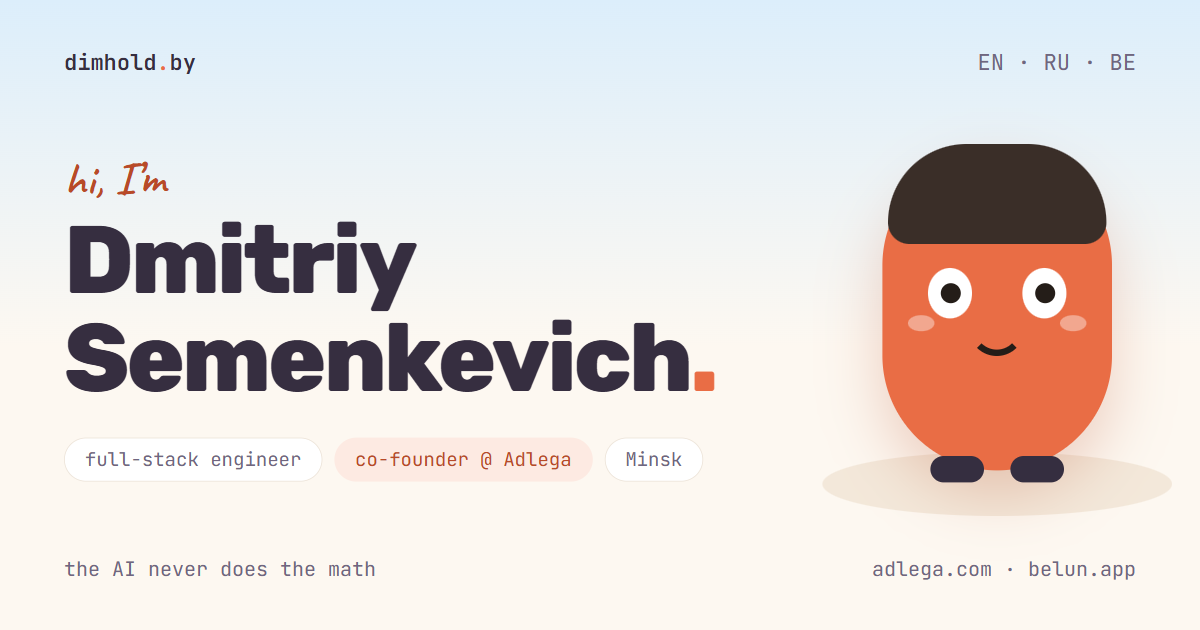
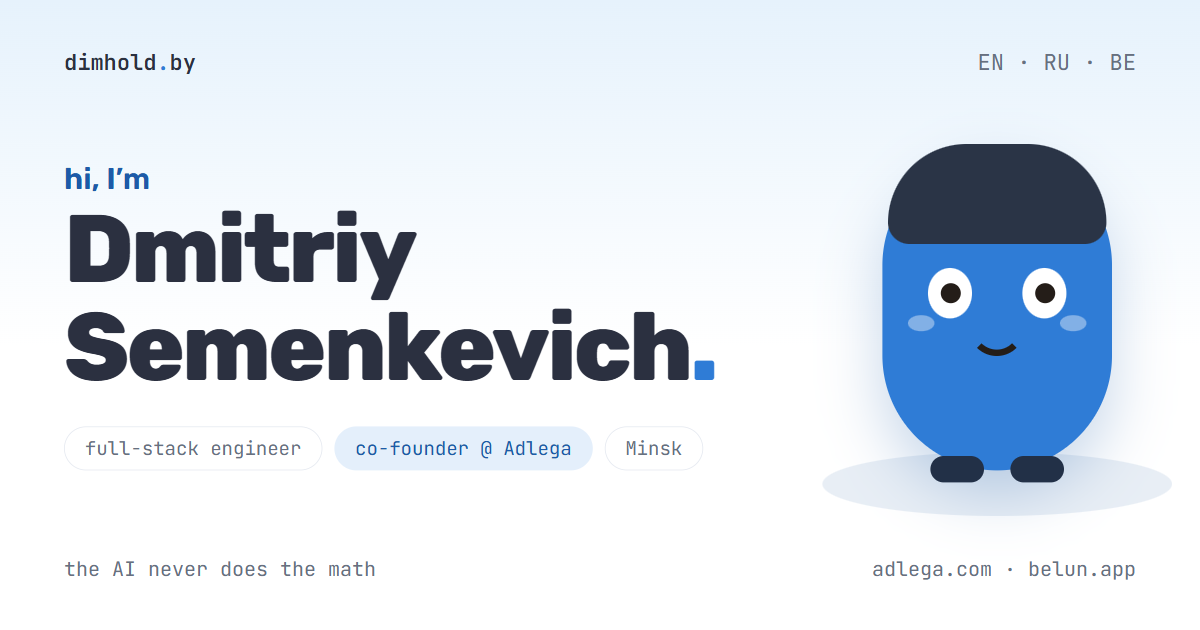
Fixed blue palette, remove the chameleon
- Single blue accent (#2f7cd6) in day and night; no coral/orange anywhere:
  favicon, OG image, 3D stage, lamp glow and bean recolored to match
- Drop the daily-seed system: palette rotation, artifact of the day,
  seed line and peek-at-tomorrow; boot script now only resolves day/night
- Rewrite the first essay as a plain rebuild build-log (site-rebuild),
  removing the deterministic-site story

diff --git a/src/i18n/index.ts b/src/i18n/index.ts
@@ -53,11 +53,7 @@ export interface Dictionary {
     ctaAdlega: string;
     photoAlt: string;
     hint: string;
-    artifactLabel: string;
-    seedLine: string;
-    seedTomorrow: string;
   };
-  artifacts: string[];
   work: {
     label: string;
     items: WorkItem[];
@@ -124,22 +120,7 @@ export const en: Dictionary = {
     ctaAdlega: 'See Adlega',
     photoAlt: 'Portrait of Dmitriy Semenkevich',
     hint: 'drag me. poke me.',
-    artifactLabel: 'today’s artifact',
-    seedLine: 'this site is deterministic',
-    seedTomorrow: 'peek at tomorrow →',
   },
-  artifacts: [
-    'a mug of coffee',
-    'a stack of books',
-    'a houseplant',
-    'a chess pawn',
-    'a donut',
-    'a dumbbell',
-    'a vinyl record',
-    'a laptop',
-    'a gem',
-    'a balloon',
-  ],
   work: {
     label: 'Building now',
     items: [
@@ -283,22 +264,7 @@ export const ru: Dictionary = {
     ctaAdlega: 'Смотреть Adlega',
     photoAlt: 'Портрет Дмитрия Семенкевича',
     hint: 'покрутите меня. ткните в меня.',
-    artifactLabel: 'артефакт дня',
-    seedLine: 'этот сайт детерминирован',
-    seedTomorrow: 'заглянуть в завтра →',
   },
-  artifacts: [
-    'кружка кофе',
-    'стопка книг',
-    'растение',
-    'шахматная пешка',
-    'пончик',
-    'гантель',
-    'виниловая пластинка',
-    'ноутбук',
-    'кристалл',
-    'воздушный шарик',
-  ],
   work: {
     label: 'Сейчас строю',
     items: [
@@ -442,22 +408,7 @@ export const be: Dictionary = {
     ctaAdlega: 'Глядзець Adlega',
     photoAlt: 'Партрэт Дзмітрыя Семянкевіча',
     hint: 'пакруціце мяне. тыцніце ў мяне.',
-    artifactLabel: 'артэфакт дня',
-    seedLine: 'гэты сайт дэтэрмінаваны',
-    seedTomorrow: 'зазірнуць у заўтра →',
   },
-  artifacts: [
-    'кубак кавы',
-    'стос кніг',
-    'расліна',
-    'шахматная пешка',
-    'пончык',
-    'гантэля',
-    'вінілавая пласцінка',
-    'ноўтбук',
-    'крышталь',
-    'паветраны шарык',
-  ],
   work: {
     label: 'Зараз будую',
     items: [

diff --git a/src/scripts/hero3d.ts b/src/scripts/hero3d.ts
@@ -231,10 +231,10 @@ function buildArtifact(index: number, accent: string, deep: string): THREE.Group
 }
 
 const PHASE_LIGHTS = {
-  morning: { hemiSky: 0xffe3c8, hemiGround: 0xd9c2a8, hemiInt: 0.95, key: 0xffd9a8, keyInt: 1.25, keyPos: [2.5, 3, 2] },
-  day: { hemiSky: 0xdfefff, hemiGround: 0xcfc4b4, hemiInt: 1.05, key: 0xffffff, keyInt: 1.35, keyPos: [2, 3.5, 2] },
-  evening: { hemiSky: 0xffd2b0, hemiGround: 0xb59a92, hemiInt: 0.85, key: 0xffb37a, keyInt: 1.2, keyPos: [2.5, 1.8, 1.5] },
-  night: { hemiSky: 0x3a3560, hemiGround: 0x181322, hemiInt: 0.55, key: 0x8fa0ff, keyInt: 0.35, keyPos: [2, 3, 2] },
+  morning: { hemiSky: 0xe4efff, hemiGround: 0xc9d2e0, hemiInt: 1.0, key: 0xffffff, keyInt: 1.3, keyPos: [2.5, 3, 2] },
+  day: { hemiSky: 0xdfefff, hemiGround: 0xc9d2e0, hemiInt: 1.05, key: 0xffffff, keyInt: 1.35, keyPos: [2, 3.5, 2] },
+  evening: { hemiSky: 0xd7e2f5, hemiGround: 0xb6c1d4, hemiInt: 0.9, key: 0xeef4ff, keyInt: 1.2, keyPos: [2.5, 1.8, 1.5] },
+  night: { hemiSky: 0x2a3a5e, hemiGround: 0x0e1626, hemiInt: 0.55, key: 0x8fa8ff, keyInt: 0.35, keyPos: [2, 3, 2] },
 } as const;
 
 export async function mountHero(container: HTMLElement, opts: HeroOptions): Promise<void> {
@@ -262,14 +262,14 @@ export async function mountHero(container: HTMLElement, opts: HeroOptions): Prom
   key.shadow.camera.top = 3;
   key.shadow.camera.bottom = -3;
   scene.add(key);
-  const lamp = new THREE.PointLight(0xffc47a, 14, 7, 1.8);
+  const lamp = new THREE.PointLight(0xbdd2ff, 14, 7, 1.8);
   lamp.position.set(1.3, 2.1, 1.1);
   lamp.visible = false;
   scene.add(lamp);
 
   const stage = new THREE.Mesh(
     new THREE.CylinderGeometry(1.55, 1.62, 0.16, 48),
-    std(0xf3e8da, { roughness: 0.9 }),
+    std(0xe8eef5, { roughness: 0.9 }),
   );
   stage.position.y = -0.08;
   stage.receiveShadow = true;
@@ -291,7 +291,7 @@ export async function mountHero(container: HTMLElement, opts: HeroOptions): Prom
     key.position.set(rig.keyPos[0], rig.keyPos[1], rig.keyPos[2]);
     const night = kind === 'night';
     lamp.visible = night;
-    (stage.material as THREE.MeshStandardMaterial).color.set(night ? 0x352d4a : 0xf3e8da);
+    (stage.material as THREE.MeshStandardMaterial).color.set(night ? 0x20304b : 0xe8eef5);
     (shadowCatcher.material as THREE.ShadowMaterial).opacity = night ? 0.32 : 0.16;
   }
 

diff --git a/src/scripts/site.ts b/src/scripts/site.ts
@@ -1,51 +1,10 @@
 import { mountToy } from './goalseek';
 
-interface Daily {
-  seed: string;
-  artifact: number;
-  accent: string;
-  deep: string;
-  wash: string;
-  phase: 'morning' | 'day' | 'evening' | 'night';
-}
-
-const FALLBACK: Daily = {
-  seed: 'fallback',
-  artifact: 0,
-  accent: '#e96d45',
-  deep: '#b84a28',
-  wash: '#fdeae2',
-  phase: 'day',
-};
+const ACCENT = '#2f7cd6';
+const ACCENT_DEEP = '#1d5aa8';
 
 export function initSite() {
-  const daily: Daily = (window as any).__daily ?? FALLBACK;
   const reduced = matchMedia('(prefers-reduced-motion: reduce)').matches;
-
-  // — captions: artifact of the day + seed line —
-  const artifactEl = document.querySelector<HTMLElement>('[data-artifact-name]');
-  if (artifactEl) {
-    try {
-      const names: string[] = JSON.parse(artifactEl.dataset.artifactNames ?? '[]');
-      artifactEl.textContent = names[daily.artifact] ?? '';
-    } catch {
-      /* keep empty */
-    }
-  }
-  for (const el of document.querySelectorAll<HTMLElement>('[data-seed]')) {
-    el.textContent = daily.seed;
-  }
-  const tomorrowLink = document.querySelector<HTMLAnchorElement>('[data-seed-tomorrow]');
-  if (tomorrowLink && /^\d{4}-\d{2}-\d{2}$/.test(daily.seed)) {
-    const d = new Date(daily.seed + 'T12:00:00');
-    d.setDate(d.getDate() + 1);
-    const pad = (n: number) => String(n).padStart(2, '0');
-    const next = `${d.getFullYear()}-${pad(d.getMonth() + 1)}-${pad(d.getDate())}`;
-    tomorrowLink.href = `?seed=${next}`;
-    tomorrowLink.addEventListener('click', () => {
-      (window as any).posthog?.capture('seed_traveled', { to: next });
-    });
-  }
 
   // — the lamp —
   const lamp = document.querySelector<HTMLButtonElement>('[data-lamp]');
@@ -115,10 +74,10 @@ export function initSite() {
     import('./hero3d')
       .then((m) =>
         m.mountHero(sceneEl, {
-          accent: daily.accent,
-          deep: daily.deep,
-          phase: daily.phase,
-          artifact: daily.artifact,
+          accent: ACCENT,
+          deep: ACCENT_DEEP,
+          phase: document.documentElement.dataset.mode === 'night' ? 'night' : 'day',
+          artifact: 7,
           reduced,
         }),
       )

diff --git a/src/styles/global.css b/src/styles/global.css
@@ -8,10 +8,10 @@
   --font-mono: 'JetBrains Mono Variable', Consolas, monospace;
   --font-hand: 'Caveat Variable', 'Segoe Script', cursive;
 
-  /* daily accent (overridden by seed script) */
-  --accent: #e96d45;
-  --accent-deep: #b84a28;
-  --accent-wash: #fdeae2;
+  /* fixed blue accent */
+  --accent: #2f7cd6;
+  --accent-deep: #1d5aa8;
+  --accent-wash: #e4effb;
 
   /* light world — white and airy */
   --bg: #ffffff;
@@ -29,25 +29,19 @@
   color-scheme: light;
 }
 
-html[data-phase='morning'] {
-  --sky-a: #fdeede;
-  --sky-b: #ffffff;
-}
-html[data-phase='evening'] {
-  --sky-a: #fce4d6;
-  --sky-b: #fff8fb;
-}
-
 html[data-mode='night'] {
-  --bg: #221c2e;
-  --surface: #2b2439;
-  --ink: #f1e9df;
-  --muted: #a89dbb;
-  --line: #3b3352;
+  --bg: #101a2b;
+  --surface: #182439;
+  --ink: #e8edf5;
+  --muted: #93a1b8;
+  --line: #283852;
+  --accent: #6aa5ee;
+  --accent-deep: #8dbcf5;
+  --accent-wash: rgba(110, 165, 238, 0.14);
   --shadow: 0 2px 6px rgba(0, 0, 0, 0.25), 0 12px 32px rgba(0, 0, 0, 0.35);
   --shadow-lift: 0 4px 10px rgba(0, 0, 0, 0.3), 0 20px 48px rgba(0, 0, 0, 0.45);
-  --sky-a: #1a1526;
-  --sky-b: #221c2e;
+  --sky-a: #0b1322;
+  --sky-b: #101a2b;
   color-scheme: dark;
 }
 
@@ -219,12 +213,12 @@ html[data-mode='night'] .langs a:hover {
 }
 
 html[data-mode='night'] .lamp {
-  color: #ffd98a;
+  color: var(--accent);
 }
 
 html[data-mode='night'] .lamp:hover {
-  background: rgba(255, 217, 138, 0.12);
-  color: #ffd98a;
+  background: var(--accent-wash);
+  color: var(--accent);
 }
 
 /* ——— hero ——— */

diff --git a/src/content/blog/site-rebuild.ru.md b/src/content/blog/site-rebuild.ru.md
@@ -1,28 +1,20 @@
 ---
-title: 'Сайт, который каждый день разный — детерминированно'
-description: 'Билд-лог: как мёртвый Jekyll-блог 2019 года превратился в трёхъязычный Astro-сайт с дизайном от сида даты, игрушкой goal-seek и 3D-аватаром, потребовавшим хирургии костей.'
+title: 'Пересобрать сайт за день: Astro, игрушка goal-seek и немного хирургии костей'
+description: 'Билд-лог: мёртвый Jekyll-блог 2019 года становится трёхъязычным Astro-сайтом с финансовой моделью, которую можно потрогать, и 3D-аватаром, который сопротивлялся.'
 date: 2026-08-14
 lang: ru
-translationKey: deterministic-site
+translationKey: site-rebuild
 ---
 
 Этот домен простоял замороженным семь лет. Jekyll-блог 2019 года с `title: Your awesome title` в конфиге, две ссылки в меню, ведущие на закомментированные страницы, и финансовый дашборд с хотлинк-графиками, которые давно не грузятся. Классический личный сайт: собран за две недели запала, брошен к апрелю.
 
 Я пересобрал его за день. Вот что под капотом — включая места, где всё пошло вбок.
 
-## Правило, которое я украл у собственного продукта
-
-В [Adlega](https://adlega.com) есть одно ненарушаемое проектное решение: ИИ никогда не считает сам. Агенты интервьюируют вас, заполняют модель, объясняют любую цифру — но каждое значение выдаёт детерминированный движок, который мы сверяем с собранной вручную Excel-моделью. Одинаковый вход — одинаковый выход, всегда.
-
-Мне хотелось, чтобы сайт нёс эту идею на видном месте. Поэтому детерминирован сам дизайн: сегодняшняя дата — это сид, и сид решает всё декоративное. Одна из восьми отобранных вручную палитр. «Артефакт дня» на 3D-сцене — кружка, шахматная пешка, пончик, гантель. Освещение следует реальному времени суток в вашем часовом поясе.
-
-Завтра сайт будет выглядеть иначе. Но не случайно иначе: `2026-08-14` даёт ровно эту версию — для всех и навсегда. Есть параметр `?seed=`, если хотите заглянуть в конкретный день. Попробуйте [ближайший Новый год](/ru/?seed=2027-01-01).
-
-Весь генератор — хеш строки плюс [mulberry32](https://gist.github.com/tommyettinger/46a874533244883189143505d203312c): около тридцати строк, без зависимостей, выполняется до первой отрисовки, чтобы ничего не мигало.
-
 ## Финансовая модель, которую можно потрогать
 
-В карточке Adlega на главной живёт игрушка: проекция MRR на 36 месяцев, два ползунка — рост и отток — и кнопка goal-seek, которая решает задачу «какой рост утраивает MRR за 24 месяца». Замкнутая форма — одна строка:
+В [Adlega](https://adlega.com) есть одно ненарушаемое проектное решение: ИИ никогда не считает сам. Агенты интервьюируют вас, заполняют модель, объясняют любую цифру — но каждое значение выдаёт детерминированный движок, который мы сверяем с собранной вручную Excel-моделью.
+
+Мне хотелось, чтобы эту идею можно было потрогать, поэтому в карточке Adlega на главной живёт игрушка: проекция MRR на 36 месяцев, два ползунка — рост и отток — и кнопка goal-seek, которая решает задачу «какой рост утраивает MRR за 24 месяца». Замкнутая форма — одна строка:
 
 ```ts
 const net = Math.pow(3, 1 / 24);          // нужный чистый месячный фактор

diff --git a/src/content/blog/site-rebuild.en.md b/src/content/blog/site-rebuild.en.md
@@ -1,28 +1,20 @@
 ---
-title: 'A site that changes every day, deterministically'
-description: 'Build log: rebuilding a dead 2019 Jekyll blog into a trilingual Astro site with a date-seeded design, a goal-seek toy and a 3D avatar that took some bone surgery.'
+title: 'Rebuilding my site in a day: Astro, a goal-seek toy and some bone surgery'
+description: 'Build log: a dead 2019 Jekyll blog becomes a trilingual Astro site with a playable financial model and a 3D avatar that fought back.'
 date: 2026-08-14
 lang: en
-translationKey: deterministic-site
+translationKey: site-rebuild
 ---
 
 This domain sat frozen for seven years. A 2019 Jekyll blog with `title: Your awesome title` still in the config, two nav links leading to commented-out pages, and a finance dashboard hotlinking charts that no longer load. The classic personal site: built in a two-week burst, abandoned by April.
 
 I rebuilt it in a day. Here is what's under the hood, including the parts that went sideways.
 
-## The rule I stole from my own product
-
-At [Adlega](https://adlega.com) we have one non-negotiable design decision: the AI never does the math. Agents interview you, fill the model, explain any number — but every figure comes from a deterministic engine we test against a hand-built Excel model. Same inputs, same outputs, every time.
-
-I wanted the site to carry that idea somewhere visible. So the design itself is deterministic: today's date is a seed, and the seed decides everything decorative. One of eight hand-picked accent palettes. An "artifact of the day" on the 3D stage — a mug, a chess pawn, a donut, a dumbbell. The lighting follows the actual time of day in your timezone.
-
-Tomorrow the site looks different. But not randomly different: `2026-08-14` produces exactly this version, for everyone, forever. There's a `?seed=` parameter if you want to visit a specific day. Try [next New Year](/?seed=2027-01-01).
-
-The whole generator is a string hash plus [mulberry32](https://gist.github.com/tommyettinger/46a874533244883189143505d203312c) — about thirty lines, no dependencies, runs before first paint so nothing flashes.
-
 ## A financial model you can poke
 
-The Adlega card on the front page has a toy: a 36-month MRR projection with two sliders, growth and churn, and a goal-seek button that solves "what growth rate triples MRR in 24 months" — the closed form is one line:
+At [Adlega](https://adlega.com) we have one non-negotiable design decision: the AI never does the math. Agents interview you, fill the model, explain any number — but every figure comes from a deterministic engine we test against a hand-built Excel model.
+
+I wanted that idea to be something you can touch, so the Adlega card on the front page has a toy: a 36-month MRR projection with two sliders, growth and churn, and a goal-seek button that solves "what growth rate triples MRR in 24 months". The closed form is one line:
 
 ```ts
 const net = Math.pow(3, 1 / 24);          // required net monthly factor
